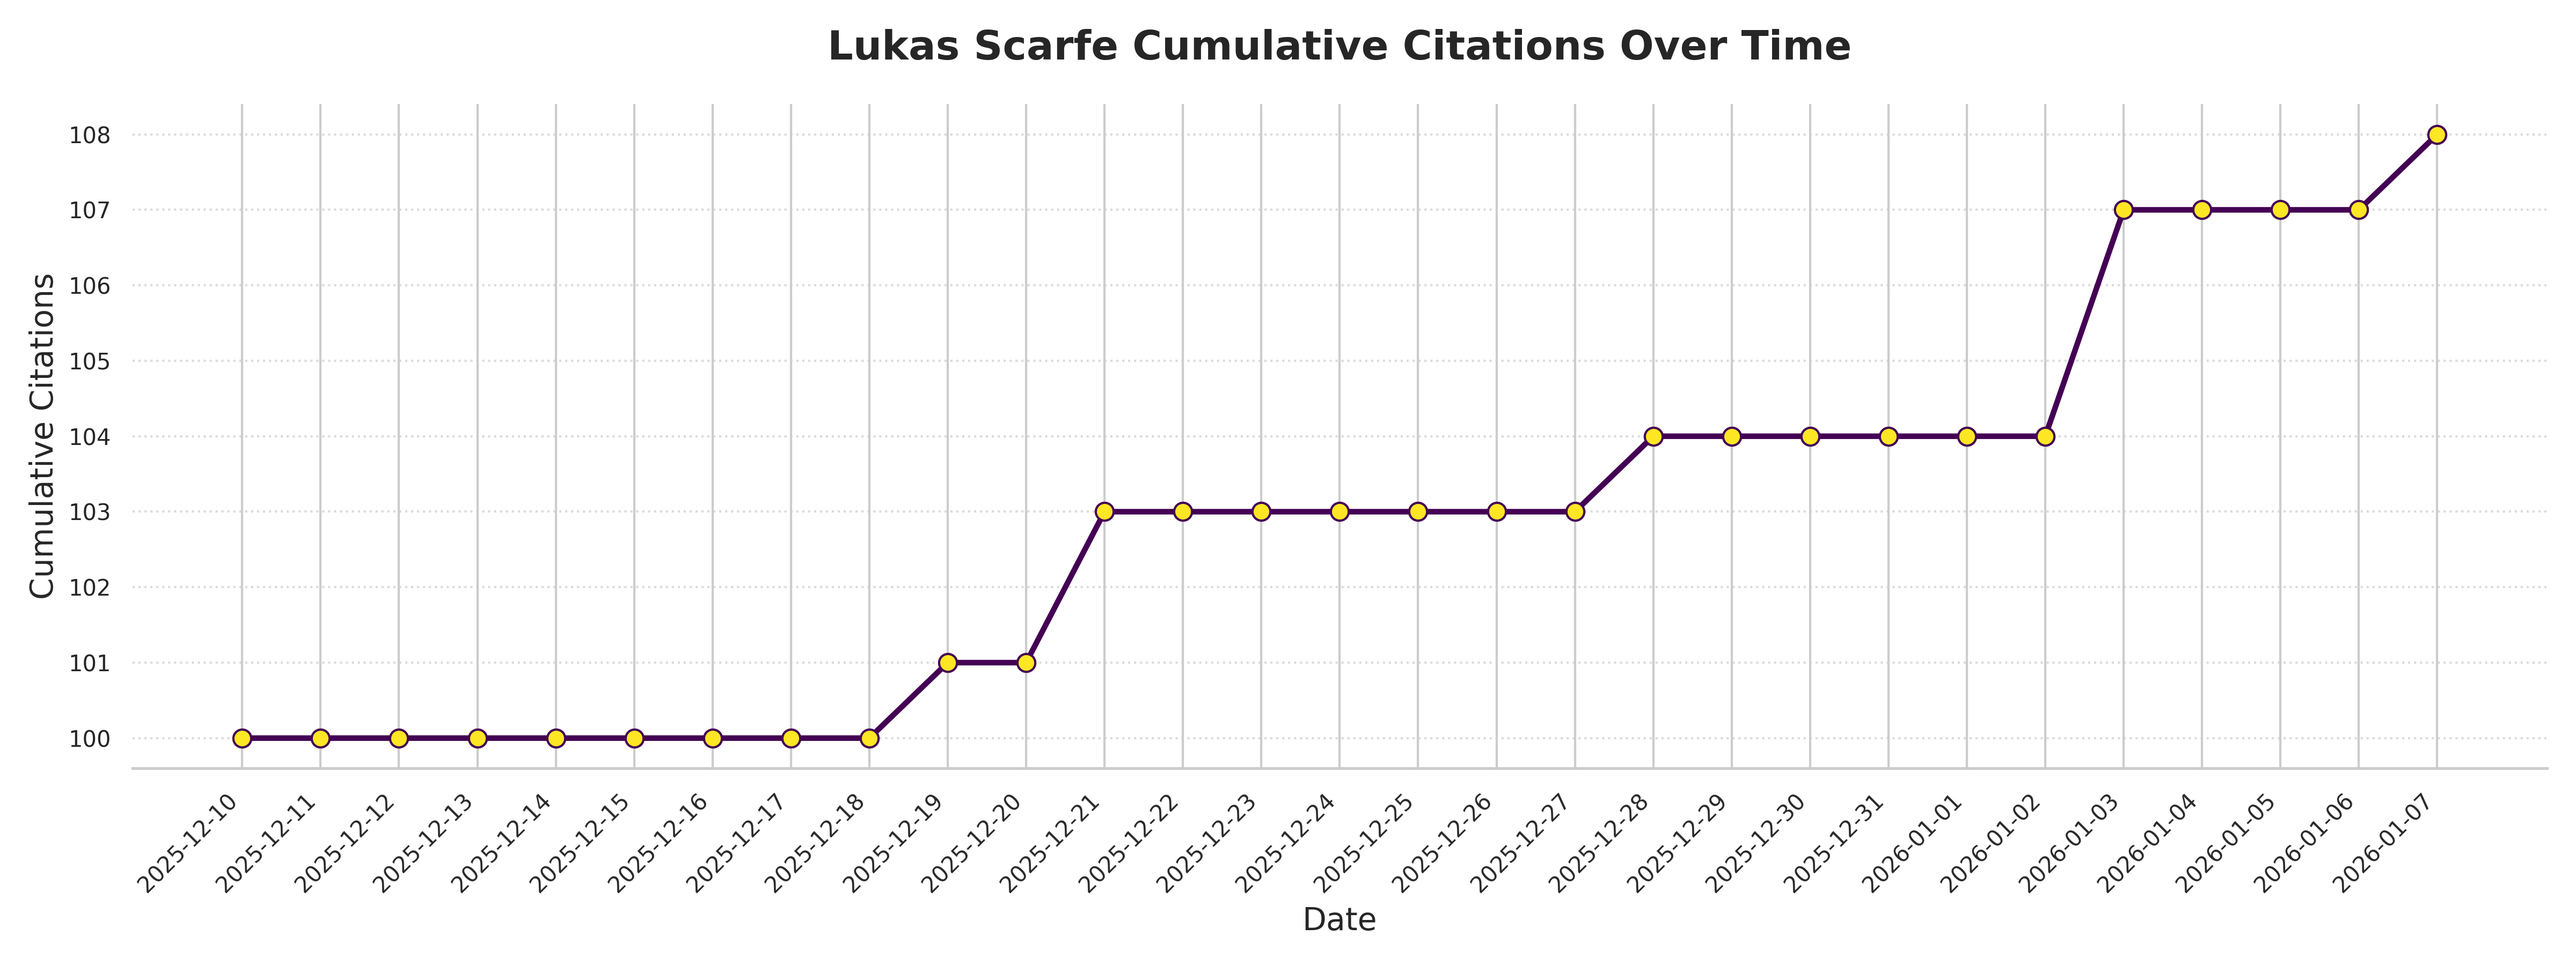
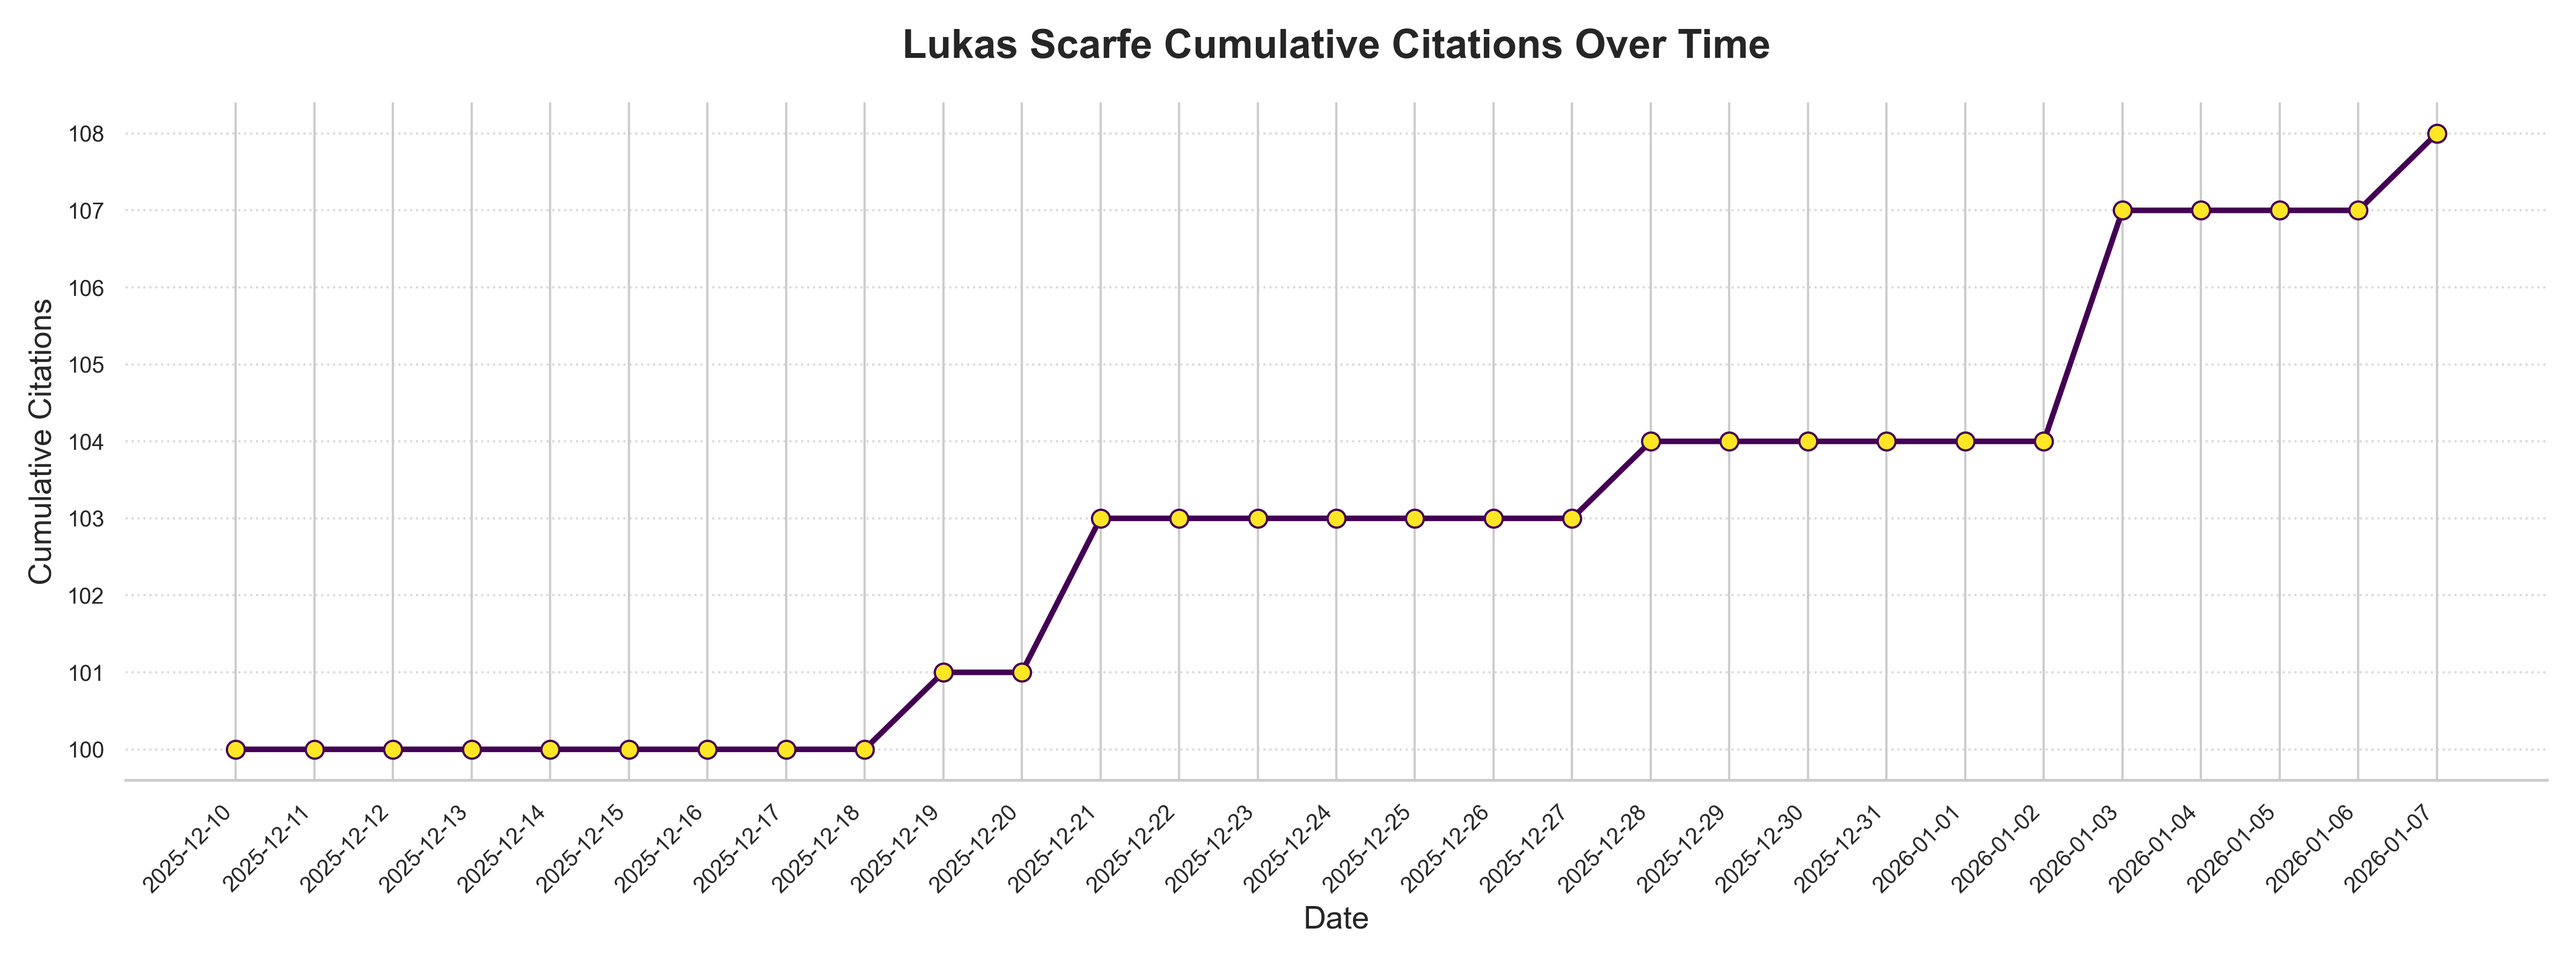
Added cumulative XKCD plot

diff --git a/plotting.py b/plotting.py
@@ -5,16 +5,21 @@ import os
 from datetime import date
 from matplotlib.ticker import MaxNLocator
 
-# --- Configuration (Must match scrape.py) ---
+import logging
+logging.getLogger('matplotlib.font_manager').setLevel(logging.ERROR)
+
+# --- Configuration ---
 CSV_FILE = "citations_history.csv"
 WIDE_CSV_FILE = "citations_wide_format.csv"
 PLOT_FILE = "top_10_citations_plot.png"
-# ---------------------------------------------
+CUMULATIVE_PLOT_FILE = "cumulative_citations_plot.png"
+XKCD_PLOT_FILE = "cumulative_citations_xkcd.png"
+# ---------------------
 
 def create_wide_csv():
     if not os.path.exists(CSV_FILE):
         print(f"Error: Long format file '{CSV_FILE}' not found. Run scrape.py first.")
-        return
+        return None
 
     try:
         # Load the full, long-format history file
@@ -29,51 +34,71 @@ def create_wide_csv():
         )
         df_wide.to_csv(WIDE_CSV_FILE)
         print(f"Successfully created WIDE format file: {WIDE_CSV_FILE}")
-
         return df_wide
 
     except Exception as e:
-
         print(f"CRITICAL ERROR during file creation: {e}")
+        return None
+
+def generate_xkcd_cumulative_plot(df_cumulative):
+    """
+    Generates a fun, hand-drawn style plot of cumulative citations.
+    """
+    try:
+        # Use the xkcd context manager for the 'hand-drawn' look
+        # This keeps the sketchy style isolated to this one plot
+        with plt.xkcd():
+            plt.figure(figsize=(12, 6))
+            
+            # Plot the data
+            plt.plot(
+                range(len(df_cumulative)), 
+                df_cumulative['Cumulative Citations'].values, 
+                color='black', 
+                linewidth=3,
+            )
+            
+            # Add titles and labels in the characteristic 'all caps' style
+            plt.title('LUKAS SCARFE: TOTAL CITATIONS', fontsize=20)
+
+            # Set X-axis ticks
+            plt.xticks(
+                range(len(df_cumulative)), 
+                df_cumulative.index, 
+                rotation=45, 
+                ha='right'
+            )
+
+
+            plt.tight_layout()
+            plt.savefig(XKCD_PLOT_FILE, dpi=150)
+            plt.close()
+            print(f"Successfully saved XKCD-style plot to {XKCD_PLOT_FILE}")
+
+    except Exception as e:
+        print(f"Error generating XKCD plot: {e}")
 
 def generate_reports(df_wide):
-    """
-    Reads the long-format CSV, pivots it to wide format, 
-    and generates the plot of the top 10 most cited papers over time.
-    """
+    if df_wide is None:
+        return
     
     try:
-        
-        # --- B. Generate Top 10 Plot (Improved Styling) ---
-
-        # Apply Seaborn style for better aesthetics
+        # --- B. Generate Top 10 Plot (Professional Style) ---
         sns.set_theme(style="whitegrid") 
 
-        # 1. Identify the 'current' citation count
-        # This now works because df_wide is defined above
         last_date_column = df_wide.columns[-1] 
-
-        # 2. Sort by the current citation count and select the top 10
         df_sorted = df_wide.sort_values(by=last_date_column, ascending=False)
         df_top_10 = df_sorted.head(10)
 
-        # 3. Transpose the data for plotting (Dates become the X-axis)
         df_plot = df_top_10.T 
         df_plot = df_plot.fillna(0) 
-
         df_plot.columns = [col[:25] for col in df_plot.columns]
 
-        # Create the plot
         plt.figure(figsize=(16, 6)) 
-
-        # Define distinct markers and line styles for each paper
         markers = ['o', 's', '^', 'D', 'v', 'p', '*', 'h', 'X', 'P']
         linestyles = ['-', '--', '-.', ':', '-', '--', '-.', ':', '-', '--']
-        
-        # Get a color palette with 10 distinct colors
         colors = sns.color_palette('viridis', n_colors=10)
         
-        # Plot each column manually to apply distinct markers and line styles
         for idx, (col, marker, linestyle, color) in enumerate(zip(df_plot.columns, markers, linestyles, colors)):
             plt.plot(
                 df_plot.index,
@@ -86,112 +111,62 @@ def generate_reports(df_wide):
                 color=color
             )
 
-        # Add Labels and Formatting
-        plt.title(
-            f'Lukas Scarfe Citations', 
-            fontsize=18, 
-            fontweight='bold', 
-            pad=20 
-        )
-
+        plt.title('Lukas Scarfe Citations', fontsize=18, fontweight='bold', pad=20)
         plt.xlabel('Date', fontsize=14)
         plt.ylabel('Citations', fontsize=14)
-
-        # Legend Placement
-        plt.legend(
-            bbox_to_anchor=(0.05, 0.95), 
-            loc='upper left', 
-            fontsize=6,
-            frameon=True, 
-            shadow=True
-        )
-
-        # Clean up the X-axis ticks
+        plt.legend(bbox_to_anchor=(0.05, 0.95), loc='upper left', fontsize=6, frameon=True, shadow=True)
         plt.xticks(rotation=45, ha='right', fontsize=10) 
         plt.yticks(fontsize=10)
         
-        # Set y-axis to only show integer values
         ax = plt.gca()
         ax.yaxis.set_major_locator(MaxNLocator(integer=True))
-
-        # Remove the top and right spines (border lines) for a cleaner look
         sns.despine(left=True)
-
-        # Add a light horizontal grid for easier tracking
         plt.grid(axis='y', linestyle=':', alpha=0.7) 
 
         plt.tight_layout()
-
-        # Save Plot
-        PLOT_FILE = "top_10_citations_plot.png"
         plt.savefig(PLOT_FILE, dpi=300) 
         plt.close()
-
         print(f"Successfully saved beautiful citation plot to {PLOT_FILE}")
 
         # --- C. Generate Cumulative Citations Plot ---
-        # Calculate cumulative citations per date (sum across all papers)
         df_cumulative = df_wide.T
         df_cumulative = df_cumulative.fillna(0)
         df_cumulative['Cumulative Citations'] = df_cumulative.sum(axis=1)
         
-        # Create the cumulative plot with matching style
         plt.figure(figsize=(16, 6))
-        
         plt.plot(
             range(len(df_cumulative)),
             df_cumulative['Cumulative Citations'].values,
             marker='o',
             linestyle='-',
             linewidth=2.5,
-            color='#440154',  # Dark purple from viridis
-            markerfacecolor='#FDE724',  # Yellow from viridis
+            color='#440154',
+            markerfacecolor='#FDE724',
             markersize=8
         )
         
-        # Add Labels and Formatting (matching the top 10 plot style)
-        plt.title(
-            f'Lukas Scarfe Cumulative Citations Over Time',
-            fontsize=18,
-            fontweight='bold',
-            pad=20
-        )
-        
+        plt.title('Lukas Scarfe Cumulative Citations Over Time', fontsize=20, fontweight='bold', pad=20)
         plt.xlabel('Date', fontsize=14)
         plt.ylabel('Cumulative Citations', fontsize=14)
         
-        # Set X-axis ticks with dates
-        plt.xticks(
-            range(len(df_cumulative)),
-            df_cumulative.index,
-            rotation=45,
-            ha='right',
-            fontsize=10
-        )
+        plt.xticks(range(len(df_cumulative)), df_cumulative.index, rotation=45, ha='right', fontsize=10)
         plt.yticks(fontsize=10)
-        
-        # Set y-axis to only show integer values
         ax = plt.gca()
         ax.yaxis.set_major_locator(MaxNLocator(integer=True))
-        
-        # Remove the top and right spines
         sns.despine(left=True)
         
-        # Add a light horizontal grid for easier tracking
-        plt.grid(axis='y', linestyle=':', alpha=0.7)
-        
         plt.tight_layout()
-        
-        # Save cumulative plot
-        CUMULATIVE_PLOT_FILE = "cumulative_citations_plot.png"
         plt.savefig(CUMULATIVE_PLOT_FILE, dpi=300)
         plt.close()
-        
         print(f"Successfully saved cumulative citation plot to {CUMULATIVE_PLOT_FILE}")
+
+        # --- D. Generate XKCD Style Plot ---
+        # We pass the cumulative data we just calculated to the new function
+        generate_xkcd_cumulative_plot(df_cumulative)
 
     except Exception as e:
         print(f"CRITICAL ERROR during report generation: {e}")
         
 if __name__ == "__main__":
-    
-    generate_reports(create_wide_csv())
+    wide_data = create_wide_csv()
+    generate_reports(wide_data)

diff --git a/xkcd.py b/xkcd.py
@@ -1,0 +1,68 @@
+import pandas as pd
+import matplotlib.pyplot as plt
+import seaborn as sns 
+import os
+from datetime import date
+from matplotlib.ticker import MaxNLocator
+import logging
+logging.getLogger('matplotlib.font_manager').setLevel(logging.ERROR)
+
+CSV_FILE = "citations_history.csv"
+XKCD_PLOT_FILE = "cumulative_citations_xkcd.png"
+
+
+df_long = pd.read_csv(CSV_FILE)
+df_long['Date'] = df_long['Date'].astype(str)
+
+# --- A. Create WIDE Format File ---
+df_wide = df_long.pivot(
+    index='Title',
+    columns='Date', 
+    values='Citations'
+)
+
+def generate_xkcd_cumulative_plot(df_cumulative):
+    """
+    Generates a fun, hand-drawn style plot of cumulative citations.
+    """
+    try:
+        # Use the xkcd context manager for the 'hand-drawn' look
+        # This keeps the sketchy style isolated to this one plot
+        with plt.xkcd():
+            plt.figure(figsize=(12, 6))
+            
+            # Plot the data
+            plt.plot(
+                range(len(df_cumulative)), 
+                df_cumulative['Cumulative Citations'].values, 
+                color='#007400', 
+                linewidth=5
+            )
+            
+            # Add titles and labels in the characteristic 'all caps' style
+            plt.title('LUKAS SCARFE: TOTAL CITATIONS', fontsize=25)
+
+            # Set X-axis ticks
+            plt.xticks(
+                range(len(df_cumulative)), 
+                df_cumulative.index, 
+                rotation=45, 
+                ha='right'
+            )
+
+
+
+            plt.tight_layout()
+            plt.savefig(XKCD_PLOT_FILE, dpi=300)
+            plt.close()
+            print(f"Successfully saved XKCD-style plot to {XKCD_PLOT_FILE}")
+
+    except Exception as e:
+        print(f"Error generating XKCD plot: {e}")
+
+
+df_cumulative = df_wide.T
+df_cumulative = df_cumulative.fillna(0)
+df_cumulative['Cumulative Citations'] = df_cumulative.sum(axis=1)
+
+generate_xkcd_cumulative_plot(df_cumulative)
